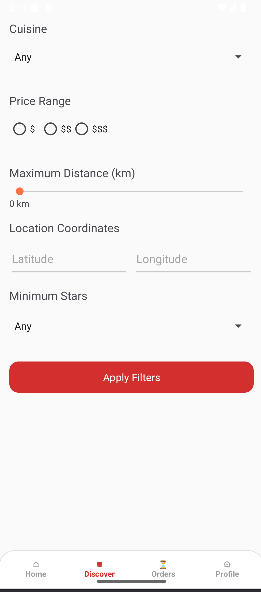
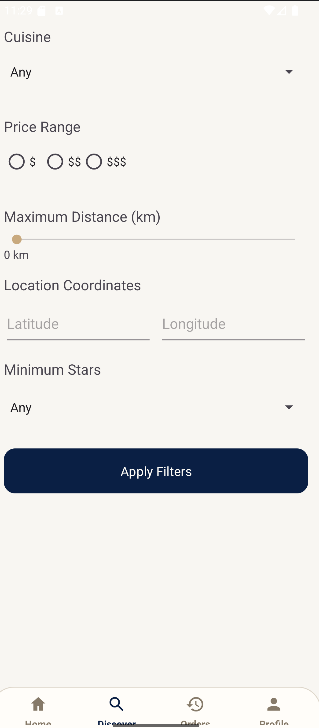
Refresh Foodie Express branding, theme, and screenshots

diff --git a/README.md b/README.md
@@ -110,7 +110,7 @@ This distinction matters in interviews: the Android client demonstrates real loc
 
 All assets are in `docs/screenshots/`.
 
-Click any screenshot to open full size.
+Click any screenshot to open full size. The gallery below reflects the latest April 2026 UI refresh.
 
 ### Customer Journey
 
@@ -128,9 +128,9 @@ Click any screenshot to open full size.
 
 ### Partner Journey
 
-| Partner Login | Manager Console |
-|---|---|
-| [![Partner Login](docs/screenshots/partner-login.png)](docs/screenshots/partner-login.png) | [![Manager Console](docs/screenshots/manager-console.png)](docs/screenshots/manager-console.png) |
+| Partner Login | Access Code Flow | Manager Console |
+|---|---|---|
+| [![Partner Login](docs/screenshots/partner-login.png)](docs/screenshots/partner-login.png) | [![Partner Access Code](docs/screenshots/partner-login-access-code.png)](docs/screenshots/partner-login-access-code.png) | [![Manager Console](docs/screenshots/manager-console.png)](docs/screenshots/manager-console.png) |
 
 | Add Product | Edit Products |
 |---|---|
